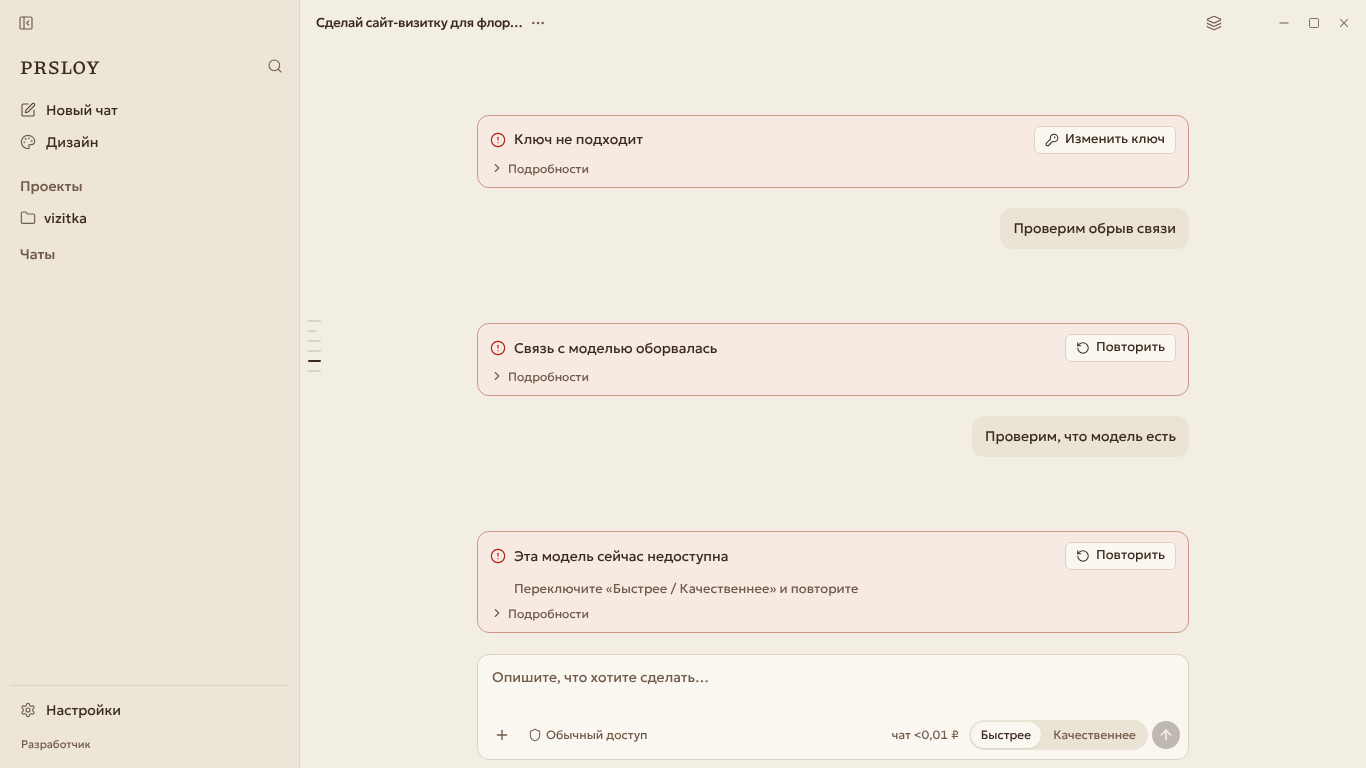
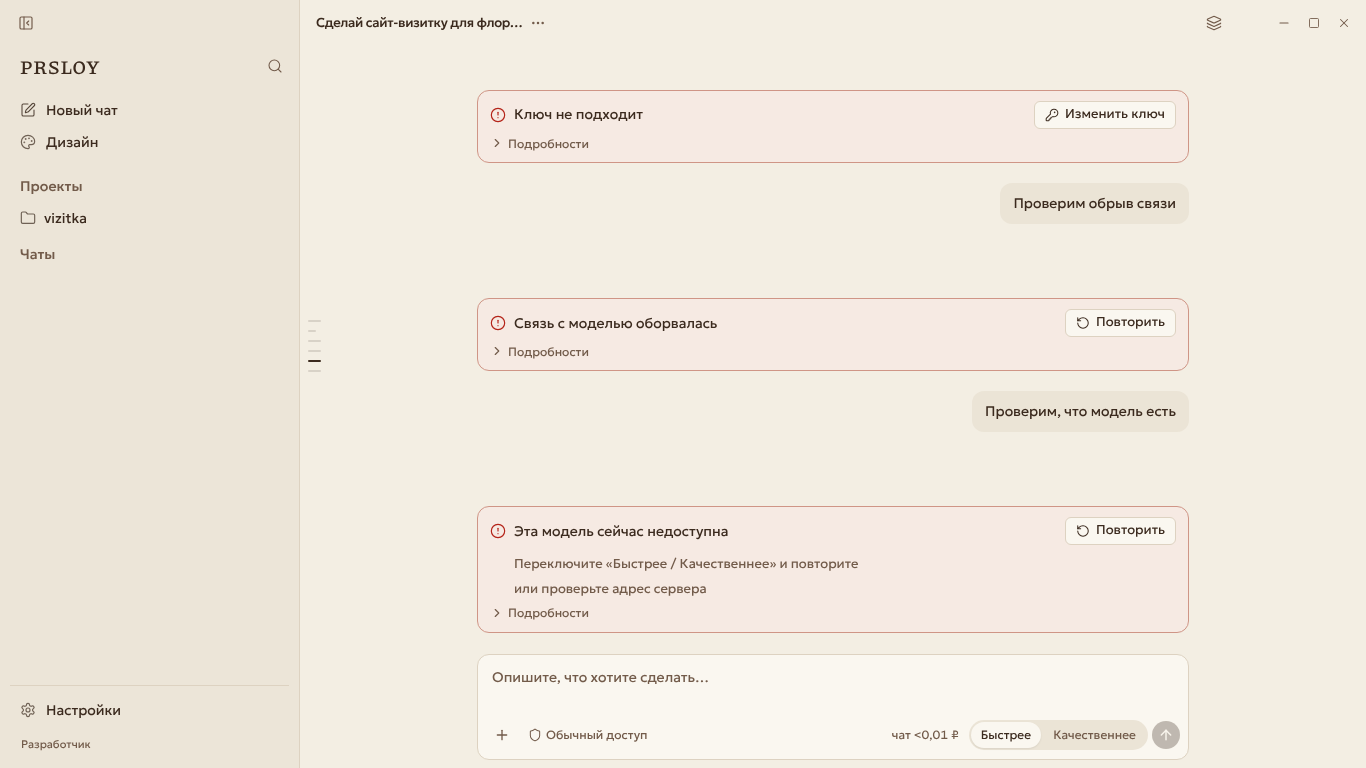
desktop/ui: missing model from core's model_unavailable code; «или проверьте адрес сервера» with another server set
Claude-Session: https://claude.ai/code/session_01T1MXX92ZtwWirroZLYeuiB

diff --git a/app/apps/desktop/src/renderer/components/ModelFailureCard.test.tsx b/app/apps/desktop/src/renderer/components/ModelFailureCard.test.tsx
@@ -1,5 +1,5 @@
 // @vitest-environment jsdom
-import { cleanup, fireEvent, render, screen } from "@testing-library/react";
+import { cleanup, fireEvent, render, screen, waitFor } from "@testing-library/react";
 import { afterEach, describe, expect, it, vi } from "vite-plus/test";
 import { useShellStore } from "../store/shell-store.ts";
 import { ModelFailureCard } from "./ModelFailureCard.tsx";
@@ -52,12 +52,16 @@ describe("ModelFailureCard", () => {
     expect(useShellStore.getState().settingsSection).toBe("account");
   });
 
-  it("missing model: says which and how to go on", () => {
+  it("missing model: says which and how to go on", async () => {
+    const getState = vi
+      .fn()
+      .mockResolvedValue({ baseUrl: "https://x/v1", defaultBaseUrl: "https://x/v1" });
+    (window as unknown as { zeno: unknown }).zeno = { prsloy: { getState } };
     const onRetry = vi.fn();
     render(
       <ModelFailureCard
         locale="ru"
-        code="unknown"
+        code="model_unavailable"
         detail="404 The model `kimi` does not exist"
         onRetry={onRetry}
       />,
@@ -66,5 +70,19 @@ describe("ModelFailureCard", () => {
     expect(screen.getByText("Переключите «Быстрее / Качественнее» и повторите")).toBeTruthy();
     fireEvent.click(screen.getByTestId("model-failure-retry"));
     expect(onRetry).toHaveBeenCalledTimes(1);
+    await waitFor(() => expect(getState).toHaveBeenCalled());
+    expect(screen.queryByTestId("model-failure-server")).toBeNull();
+  });
+
+  it("missing model with another server set: also suggests checking the address", async () => {
+    const getState = vi.fn().mockResolvedValue({
+      baseUrl: "https://my.proxy/v1",
+      defaultBaseUrl: "https://api.prsloy.online/v1",
+    });
+    (window as unknown as { zeno: unknown }).zeno = { prsloy: { getState } };
+    render(<ModelFailureCard locale="ru" code="model_unavailable" detail="404 Not Found" />);
+    expect((await screen.findByTestId("model-failure-server")).textContent).toBe(
+      "или проверьте адрес сервера",
+    );
   });
 });

diff --git a/app/apps/desktop/src/renderer/components/ModelFailureCard.tsx b/app/apps/desktop/src/renderer/components/ModelFailureCard.tsx
@@ -3,7 +3,7 @@
  * prompt), «Пополнить» (the PRSLOY cabinet) or «Изменить ключ» (Settings → Аккаунт). The raw
  * error stays folded away under «Подробности».
  */
-import { useState } from "react";
+import { useEffect, useState } from "react";
 import { ChevronRight, CircleAlert, KeyRound, RotateCcw, Wallet } from "lucide-react";
 import { t, type Locale } from "../lib/i18n.ts";
 import {
@@ -31,6 +31,20 @@ export function ModelFailureCard(props: {
   const action = failureAction(kind);
   const title = t(props.locale, failureTitleKey(kind));
   const hintKey = failureHintKey(kind);
+  // A bare 404 from a wrong address also reads as a missing model: with «Другой сервер» set,
+  // the address is the other suspect.
+  const [customServer, setCustomServer] = useState(false);
+  useEffect(() => {
+    if (kind !== "model") return;
+    let alive = true;
+    void window.zeno.prsloy
+      .getState()
+      .then((state) => alive && setCustomServer(state.baseUrl !== state.defaultBaseUrl))
+      .catch(() => undefined);
+    return () => {
+      alive = false;
+    };
+  }, [kind]);
   // The gateway's own drop already says «Связь с моделью оборвалась»; nothing more to unfold.
   const detail = props.detail.trim() === title ? "" : props.detail;
   const run =
@@ -69,6 +83,11 @@ export function ModelFailureCard(props: {
         ) : null}
       </div>
       {hintKey ? <p className="model-failure-hint">{t(props.locale, hintKey)}</p> : null}
+      {customServer ? (
+        <p className="model-failure-hint" data-testid="model-failure-server">
+          {t(props.locale, "failure.model.server")}
+        </p>
+      ) : null}
       {detail ? (
         <>
           <button

diff --git a/app/apps/desktop/src/renderer/lib/model-failure.ts b/app/apps/desktop/src/renderer/lib/model-failure.ts
@@ -3,7 +3,7 @@
  *
  * The host sends a stable `code` with `message.failed` (agent-runtime `classifyModelError`).
  * A chat reopened from disk has only pi's raw error text, so the same few cases are read
- * from that text as a fallback. A missing model has no code yet and is read from the text.
+ * from that text as a fallback.
  */
 import type { MessageKey } from "./i18n.ts";
 import { RESPONSE_FAILED_TITLE } from "./system-notices.ts";
@@ -21,9 +21,10 @@ const PROXY_DROPS =
   /attempts failed[\s\S]*(fetch failed|ECONNRESET|socket hang up|terminated|other side closed)/iu;
 
 export function failureKind(code: string | undefined, text: string): FailureKind {
-  if (MODEL_MISSING.test(text)) return "model";
   if (PROXY_DROPS.test(text)) return "network";
   switch (code) {
+    case "model_unavailable":
+      return "model";
     case "no_balance":
       return "balance";
     case "auth":
@@ -39,6 +40,8 @@ export function failureKind(code: string | undefined, text: string): FailureKind
     default:
       break;
   }
+  // No code (a chat reopened from disk keeps only pi's text) or `unknown`: read the text.
+  if (MODEL_MISSING.test(text)) return "model";
   const raw = text.trim();
   if (/^402\b|insufficient (balance|funds|quota)|out of credits/iu.test(raw)) return "balance";
   if (/^40[13]\b|invalid api key|unauthori[sz]ed/iu.test(raw)) return "key";

diff --git a/app/apps/desktop/src/renderer/lib/locales/ru.ts b/app/apps/desktop/src/renderer/lib/locales/ru.ts
@@ -1527,6 +1527,7 @@ export const ru = {
   "failure.key.title": "Ключ не подходит",
   "failure.model.title": "Эта модель сейчас недоступна",
   "failure.model.hint": "Переключите «Быстрее / Качественнее» и повторите",
+  "failure.model.server": "или проверьте адрес сервера",
   "failure.busy.title": "Модель сейчас перегружена",
   "failure.busy.hint": "Подождите минуту и повторите",
   "failure.slow.title": "Модель слишком долго не отвечала",

diff --git a/app/apps/desktop/src/renderer/lib/model-failure.test.ts b/app/apps/desktop/src/renderer/lib/model-failure.test.ts
@@ -18,7 +18,8 @@ describe("failureKind", () => {
     expect(failureKind("server", "502 Bad Gateway")).toBe("server");
   });
 
-  it("reads a missing model from the text (no code for it yet)", () => {
+  it("a missing model: the host's code, or the text of a reopened chat", () => {
+    expect(failureKind("model_unavailable", "404 Not Found")).toBe("model");
     expect(failureKind("unknown", "404 The model `kimi-k9` does not exist")).toBe("model");
     expect(failureKind(undefined, '{"error":{"code":"model_not_found"}}')).toBe("model");
   });

diff --git a/app/apps/desktop/src/renderer/lib/locales/en.ts b/app/apps/desktop/src/renderer/lib/locales/en.ts
@@ -1546,6 +1546,7 @@ export const en = {
   "failure.key.title": "The key doesn't work",
   "failure.model.title": "This model isn't available right now",
   "failure.model.hint": "Switch «Faster / Better» and try again",
+  "failure.model.server": "or check the server address",
   "failure.busy.title": "The model is overloaded right now",
   "failure.busy.hint": "Wait a minute and try again",
   "failure.slow.title": "The model took too long to answer",

diff --git a/app/apps/desktop/src/renderer/lib/locales/zh.ts b/app/apps/desktop/src/renderer/lib/locales/zh.ts
@@ -1515,6 +1515,7 @@ export const zh = {
   "failure.key.title": "密钥不正确",
   "failure.model.title": "这个模型暂时不可用",
   "failure.model.hint": "切换「更快 / 更好」后重试",
+  "failure.model.server": "或检查服务器地址",
   "failure.busy.title": "模型现在太忙了",
   "failure.busy.hint": "等一分钟再试",
   "failure.slow.title": "模型太久没有回应",

diff --git a/app/apps/desktop/src/renderer/styles.css b/app/apps/desktop/src/renderer/styles.css
@@ -6875,6 +6875,9 @@ textarea.models-scoped-patterns-input[data-slot="textarea"] {
   font-size: 13px;
   color: var(--muted-foreground);
 }
+.model-failure-hint + .model-failure-hint {
+  margin-top: 0;
+}
 .model-retry-note {
   margin: 0 0 12px;
   font-size: 13px;
